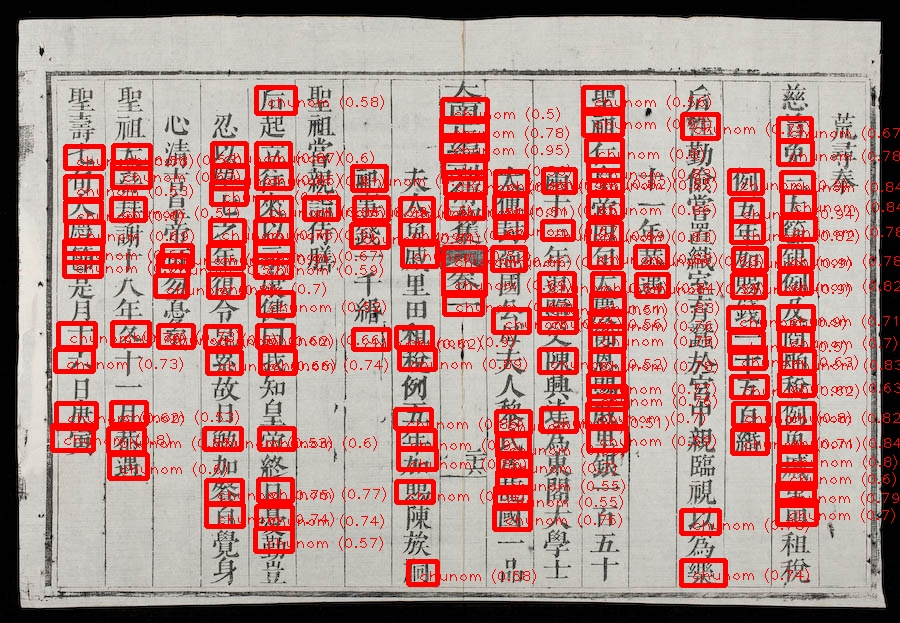
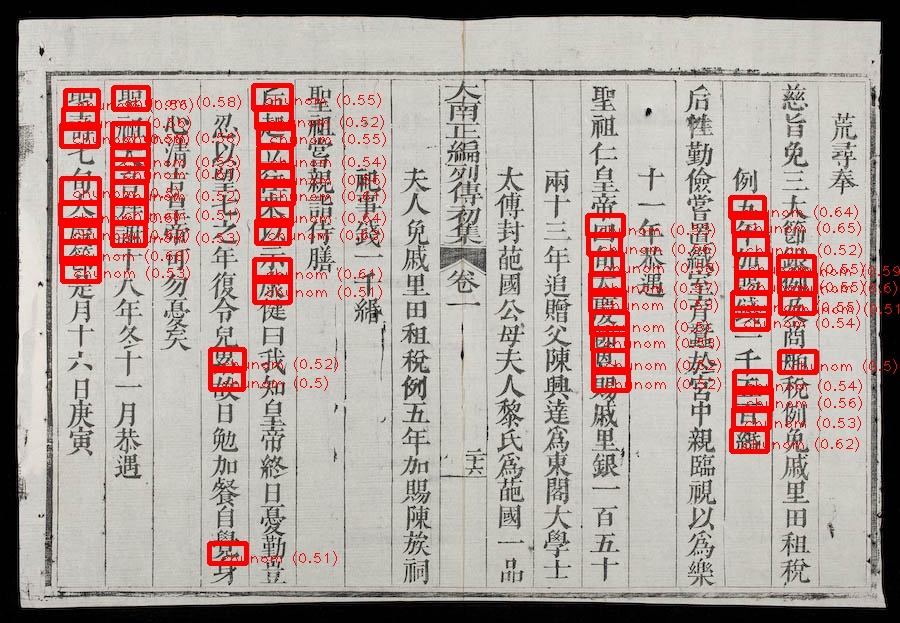
inference cv2.imshow

Changed region(s): [[0.0311, 0.122, 1.0, 0.9454], [0.4356, 0.8844, 0.5911, 0.9454]]

diff --git a/mediapipe/inference.py b/mediapipe/inference.py
@@ -56,24 +56,44 @@ base_options = python.BaseOptions(
 options = vision.ObjectDetectorOptions(base_options=base_options,
                                        score_threshold=0.5)
 detector = vision.ObjectDetector.create_from_options(options)
-
+print("STEP 2: Create an ObjectDetector object.")
 # STEP 3: Load the input image.
 image = mp.Image.create_from_file(
     # "/home/dunp/Downloads/android_figurine/train/images/IMG_0509.jpg"
     # "/work/cloud/cloud.mldlai/test/new.jpg.txt.jpg"
     "/work/llm/Ner_Llm_Gpt/mediapipe/nlvnpf-0137-01-045.jpg"
 )
-
+print("# STEP 3: Load the input image.")
 # STEP 4: Detect objects in the input image.
 detection_result = detector.detect(image)
-
+print("# STEP 4: Detect objects in the input image.")
 # STEP 5: Process the detection result. In this case, visualize it.
 image_copy = np.copy(image.numpy_view())
 annotated_image = visualize(image_copy, detection_result)
 rgb_annotated_image = cv2.cvtColor(annotated_image, cv2.COLOR_BGR2RGB)
 # cv2.imshow("", rgb_annotated_image)
+print("STEP 5: Process the detection result. In this case, visualize it.")
 
 cv2.imwrite("detected.jpg", rgb_annotated_image)
 
-imgplot = plt.imshow(rgb_annotated_image)
-plt.show()
+print("STEP 6: Save detected image")
+
+cv2.imshow("Image", rgb_annotated_image)
+
+cv2.waitKey(0)
+cv2.destroyAllWindows()
+# import matplotlib
+# import matplotlib.rcsetup as rcsetup
+# print(matplotlib.matplotlib_fname())
+# print(rcsetup.all_backends)
+# guibackend = "Qt5Agg"
+# matplotlib.use(guibackend)
+# plt.switch_backend(guibackend)
+# # # plt.style.use('ggplot')
+
+# matplotlib.rcParams['backend'] = guibackend
+# print(f"Interactive mode: {matplotlib.is_interactive()}")
+# print(f"matplotlib backend: {matplotlib.rcParams['backend']}")
+# imgplot = plt.imshow(rgb_annotated_image, cv2.WINDOW_GUI_EXPANDED)
+# plt.show()
+

diff --git a/mistralvn/main.py b/mistralvn/main.py
@@ -53,7 +53,6 @@ print(f"HIP version: {torch.version.hip} (Should contain value)")
 print(f"torch.cuda.is_available(): {torch.cuda.is_available()}")
 # print(torch.cuda.memory_summary())
 
-
 class EmbeddingRequest(BaseModel):
     input: str
     encoding_format: "float"
@@ -108,7 +107,6 @@ class Choice(BaseModel):
     finish_reason: Optional[str] = None
     index: int = 0
 
-
 class ChatResponse(BaseModel):
     id: str
     object: str
@@ -131,7 +129,6 @@ if device_type == None or device_type == "":
     device_type = "cpu"
 
 print(f"device_type try to use: {device_type}")
-
 
 # torch.cuda.empty_cache()
 # import gc
@@ -180,12 +177,10 @@ model = AutoModelForCausalLM.from_pretrained(
 
 conversation = [{"role": "system", "content": system_prompt}]
 
-
 # @webApp.on_event("startup")
 # def startup():
 #     print("start")
 #     RunVar("_default_thread_limiter").set(CapacityLimiter(2))
-
 
 @asynccontextmanager
 async def lifespan(app: FastAPI):

diff --git a/mediapipe/train.py b/mediapipe/train.py
@@ -127,7 +127,7 @@ spec = object_detector.SupportedModels.MOBILENET_MULTI_AVG
 hparams = object_detector.HParams(
     learning_rate=0.1,
     batch_size=16,
-    epochs=2000,
+    epochs=100,
     export_dir='exported_model')
 options = object_detector.ObjectDetectorOptions(
     supported_model=spec,

diff --git a/mediapipe/readme.md b/mediapipe/readme.md
@@ -25,6 +25,11 @@ convert others format to coco format, then use mediapipe to train
 
 
                 sudo apt install libgtk2.0-dev pkg-config
+                sudo apt-get install -y libxcb-xinerama0 libxcb-xinerama0-dev
+                sudo apt-get install qt5-default
+                sudo apt-get install libgtk-3-dev
+
+                python3 -m pip install --upgrade pip                
                 pip3 install -U tensorflow mediapipe mediapipe_model_maker  PyQt5
                 pip3 install -U opencv-python opencv-contrib-python 
 
